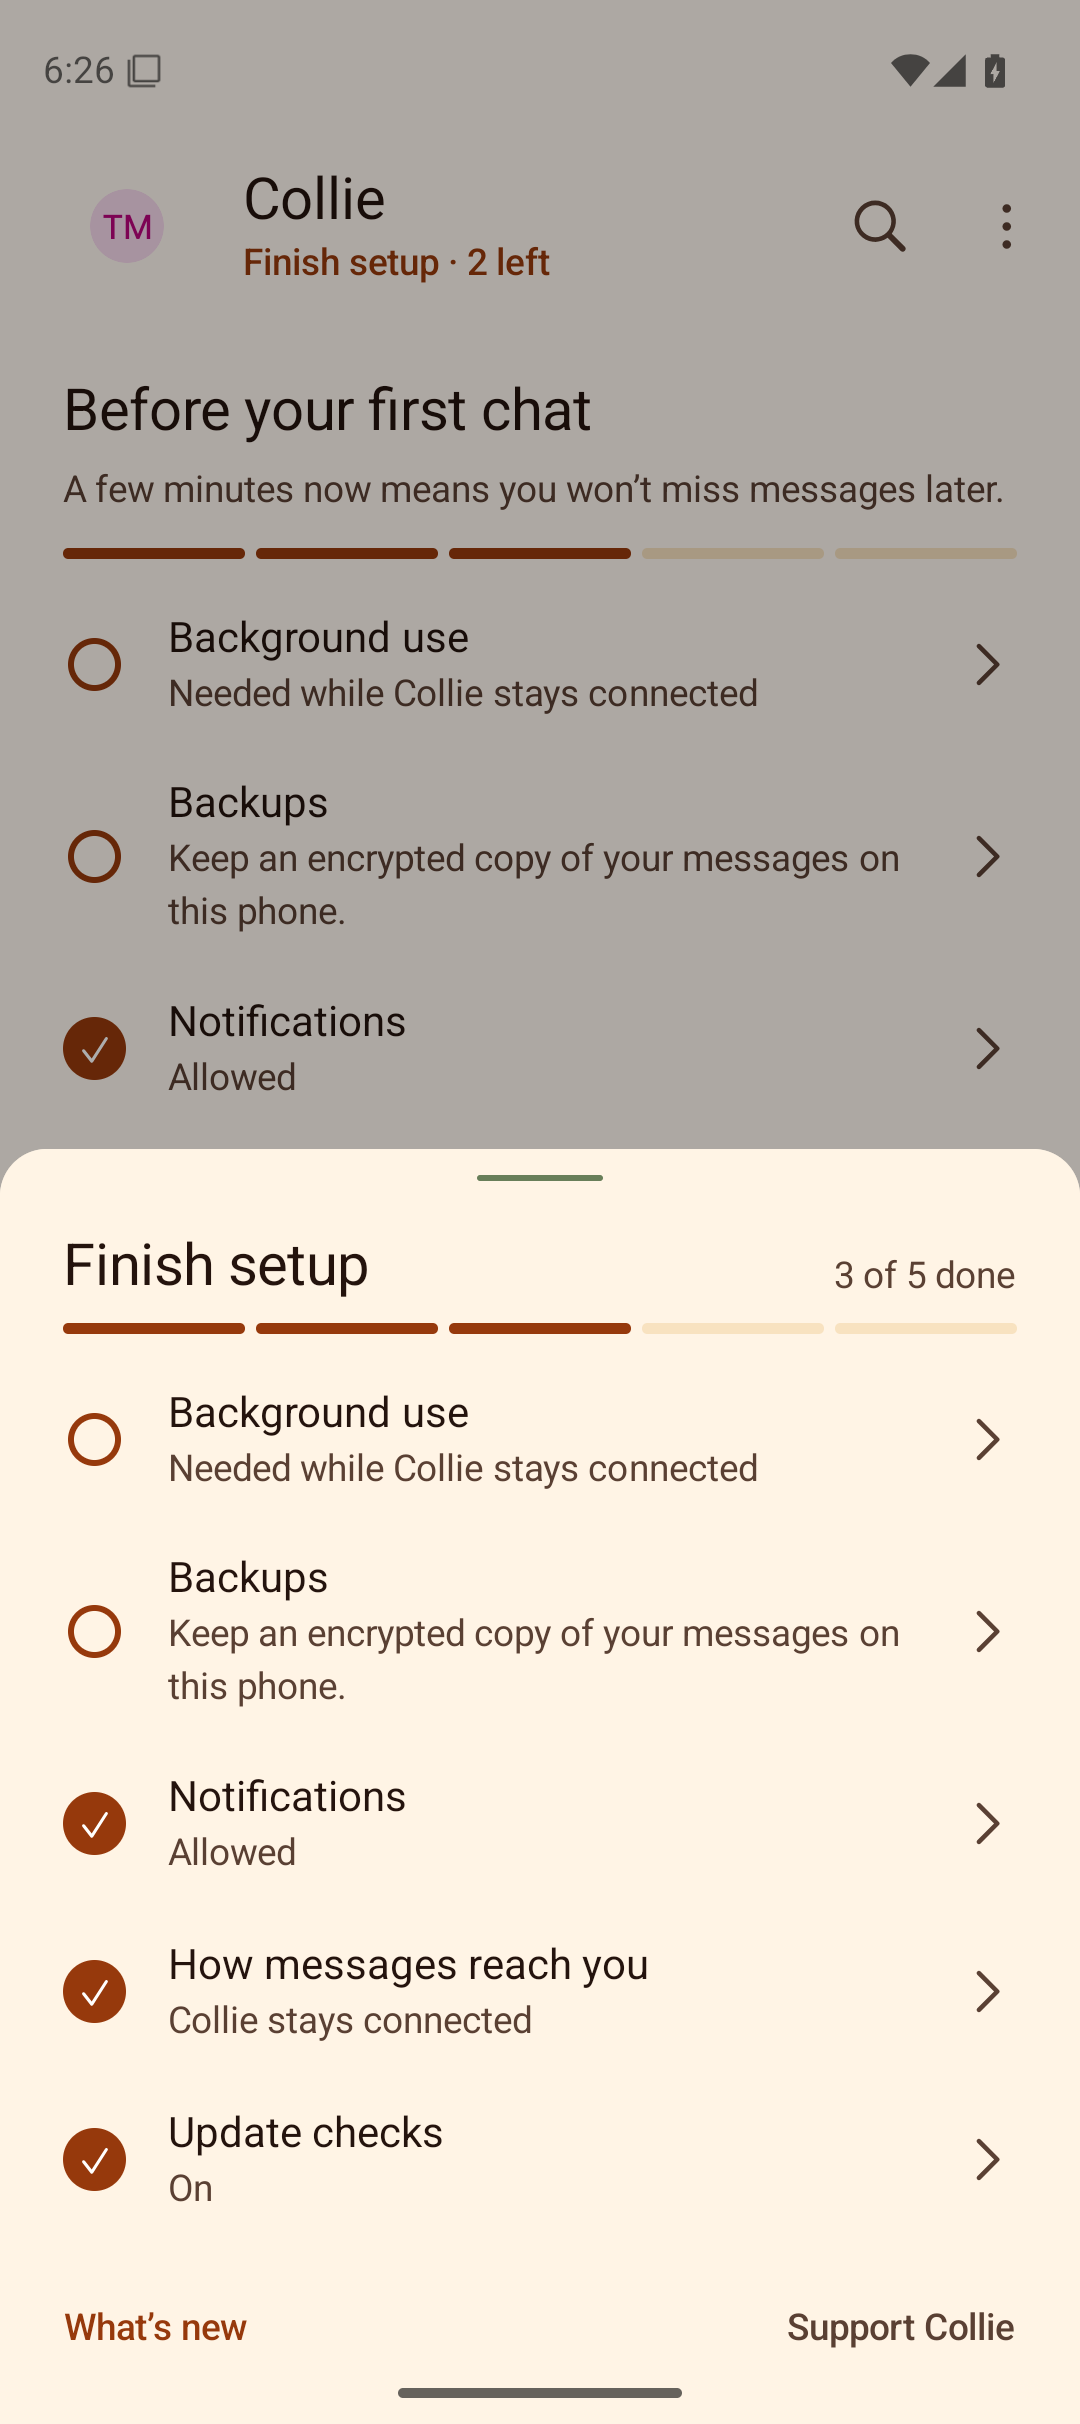
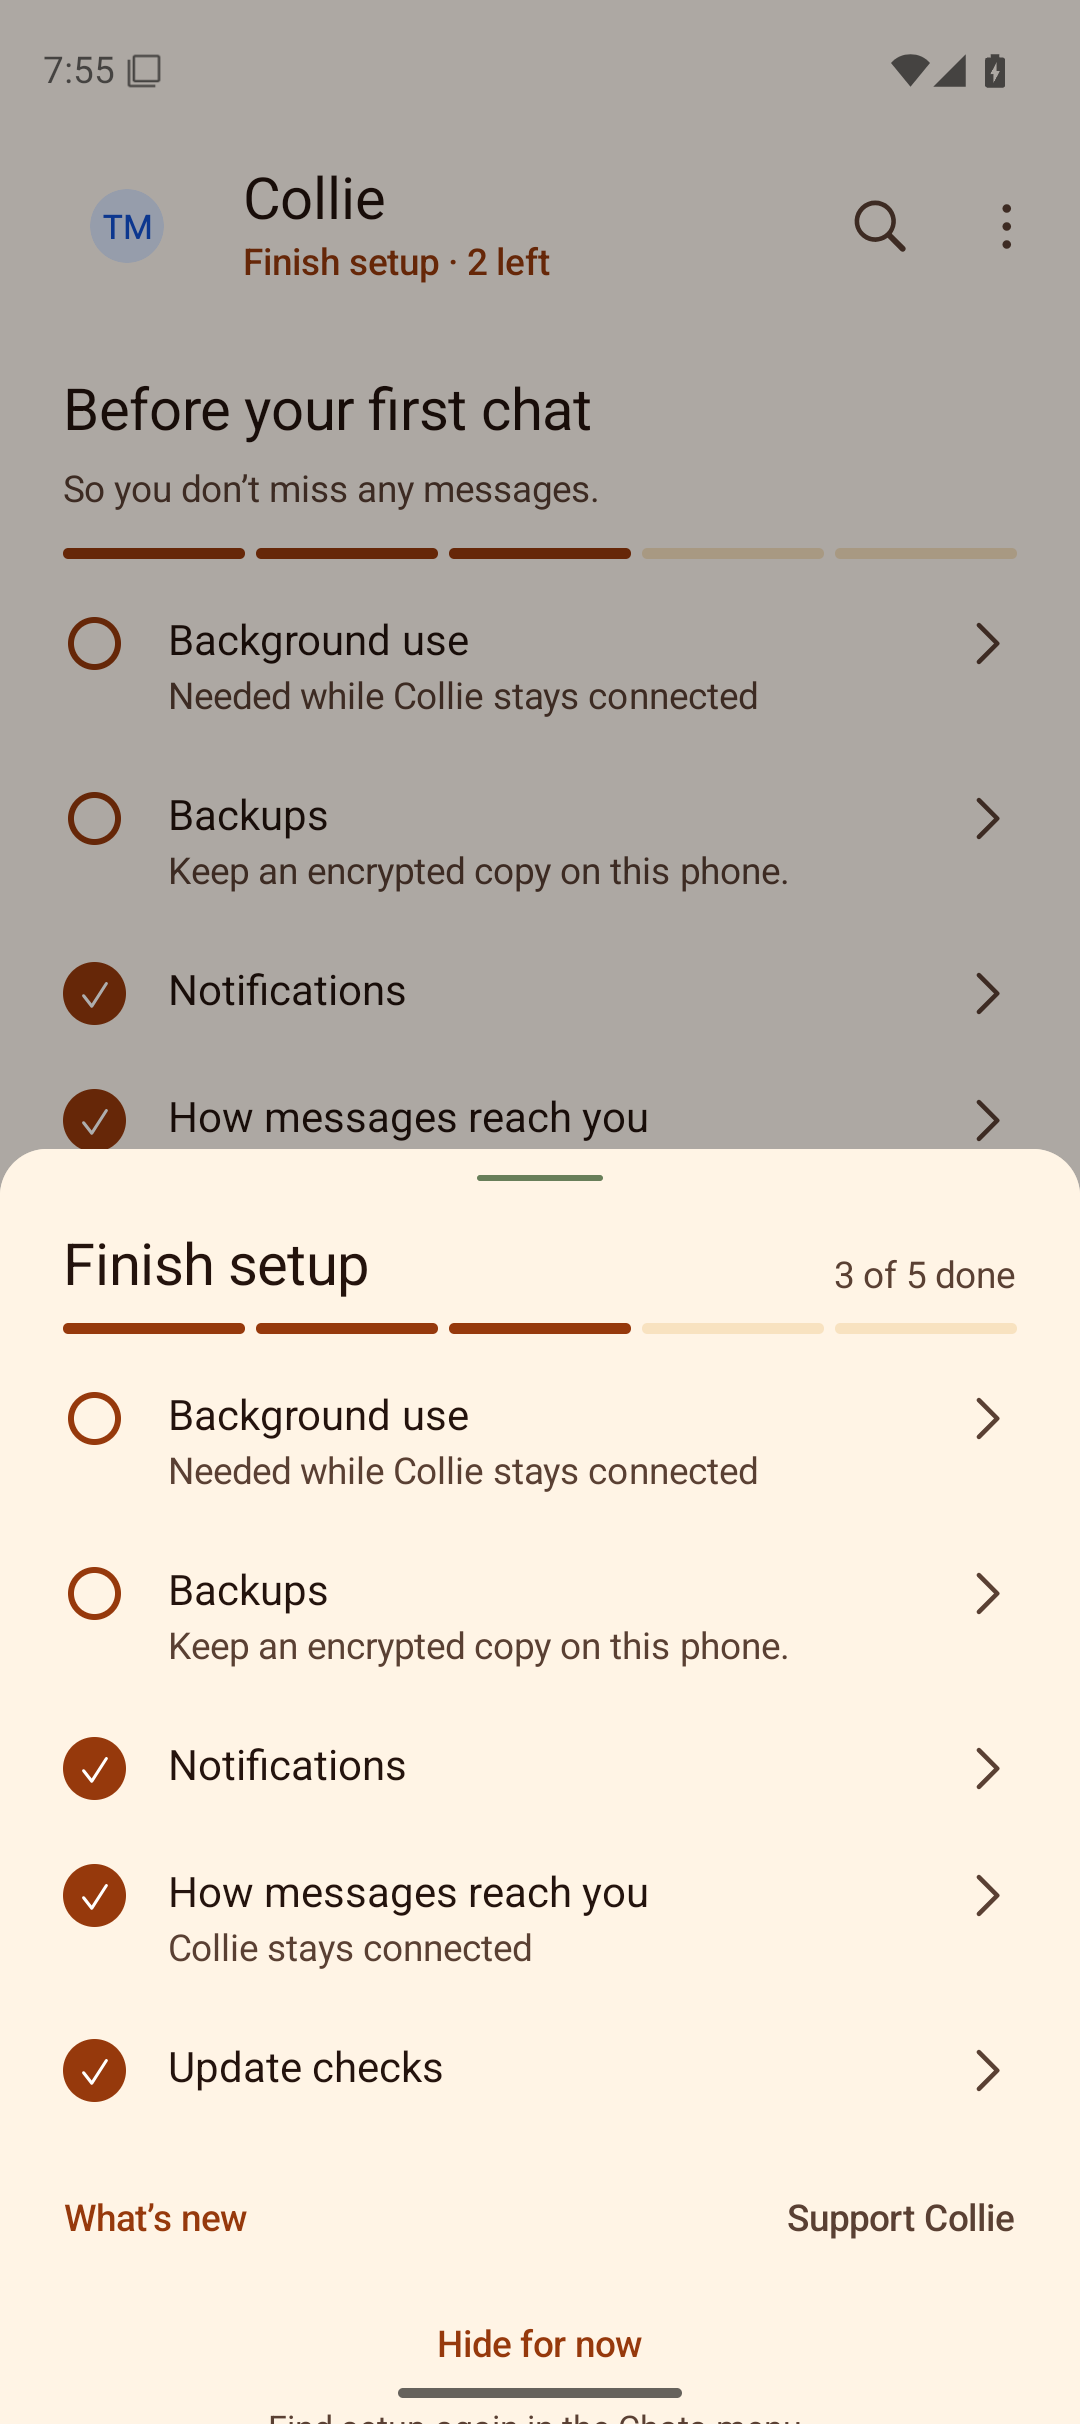
Keep the setup checklist tidy at large text sizes
At 200% text the checklist rows wrapped onto three lines with the mark and
chevron floating in the middle, and done rows repeated what the check mark
already said. Marks and chevrons now sit on each title's first line, done
rows drop "Allowed"/"On" (delivery keeps its method), two descriptions are
shorter, and the empty state no longer adds bottom space the list already
reserves for the camera and compose buttons (it caused a stray scrollbar).

Layer: setup

diff --git a/app/src/main/java/org/thoughtcrime/securesms/main/setup/SetupUi.kt b/app/src/main/java/org/thoughtcrime/securesms/main/setup/SetupUi.kt
@@ -17,7 +17,6 @@ import androidx.compose.foundation.layout.Row
 import androidx.compose.foundation.layout.Spacer
 import androidx.compose.foundation.layout.fillMaxWidth
 import androidx.compose.foundation.layout.height
-import androidx.compose.foundation.layout.heightIn
 import androidx.compose.foundation.layout.padding
 import androidx.compose.foundation.layout.size
 import androidx.compose.foundation.layout.width
@@ -33,6 +32,7 @@ import androidx.compose.ui.Alignment
 import androidx.compose.ui.Modifier
 import androidx.compose.ui.graphics.Color
 import androidx.compose.ui.layout.Layout
+import androidx.compose.ui.platform.LocalDensity
 import androidx.compose.ui.res.stringResource
 import androidx.compose.ui.semantics.Role
 import androidx.compose.ui.semantics.semantics
@@ -41,6 +41,7 @@ import androidx.compose.ui.text.TextStyle
 import androidx.compose.ui.text.rememberTextMeasurer
 import androidx.compose.ui.text.style.TextOverflow
 import androidx.compose.ui.unit.dp
+import androidx.compose.ui.unit.max
 import im.molly.unifiedpush.health.PushHealth
 import org.signal.core.ui.compose.SignalIcons
 import org.thoughtcrime.securesms.R
@@ -254,31 +255,41 @@ private fun SetupItemRow(
     }
   )
 
+  val titleStyle = MaterialTheme.typography.bodyLarge
+  // The mark and chevron sit on the title's first line, so they stay put when large text wraps the row onto more lines.
+  val firstLine = max(with(LocalDensity.current) { titleStyle.lineHeight.toDp() }, 24.dp)
+  val description = descriptionOf(row, details)
+
   Row(
-    verticalAlignment = Alignment.CenterVertically,
+    verticalAlignment = Alignment.Top,
     modifier = Modifier
       .fillMaxWidth()
-      .heightIn(min = 64.dp)
       .clickable(role = Role.Button, onClick = onClick)
       .semantics(mergeDescendants = true) { stateDescription = stateText }
-      .padding(horizontal = horizontalPadding, vertical = 10.dp)
+      .padding(horizontal = horizontalPadding, vertical = 12.dp)
   ) {
-    StatusMark(row.status)
+    Box(contentAlignment = Alignment.Center, modifier = Modifier.height(firstLine)) {
+      StatusMark(row.status)
+    }
     Spacer(modifier = Modifier.width(16.dp))
     Column(modifier = Modifier.weight(1f)) {
-      Text(text = stringResource(titleOf(row.item)), style = MaterialTheme.typography.bodyLarge)
-      Text(
-        text = descriptionOf(row, details),
-        style = MaterialTheme.typography.bodyMedium,
-        color = MaterialTheme.colorScheme.onSurfaceVariant
-      )
+      Text(text = stringResource(titleOf(row.item)), style = titleStyle)
+      if (description != null) {
+        Text(
+          text = description,
+          style = MaterialTheme.typography.bodyMedium,
+          color = MaterialTheme.colorScheme.onSurfaceVariant
+        )
+      }
     }
     Spacer(modifier = Modifier.width(8.dp))
-    Icon(
-      imageVector = SignalIcons.ChevronRight.imageVector,
-      contentDescription = null,
-      tint = MaterialTheme.colorScheme.onSurfaceVariant
-    )
+    Box(contentAlignment = Alignment.Center, modifier = Modifier.height(firstLine)) {
+      Icon(
+        imageVector = SignalIcons.ChevronRight.imageVector,
+        contentDescription = null,
+        tint = MaterialTheme.colorScheme.onSurfaceVariant
+      )
+    }
   }
 }
 
@@ -321,11 +332,12 @@ private fun titleOf(item: SetupItem): Int = when (item) {
   SetupItem.BACKUPS -> R.string.CollieSetup__backups_title
 }
 
+/** Done rows only get a description when it says more than the check mark does, such as which push method is in use. */
 @Composable
-private fun descriptionOf(row: SetupRow, details: SetupStatusRepository.Details): String {
+private fun descriptionOf(row: SetupRow, details: SetupStatusRepository.Details): String? {
   val done = row.status == ItemStatus.DONE
   return when (row.item) {
-    SetupItem.NOTIFICATIONS -> stringResource(if (done) R.string.CollieSetup__notifications_done else R.string.CollieSetup__notifications_todo)
+    SetupItem.NOTIFICATIONS -> if (done) null else stringResource(R.string.CollieSetup__notifications_todo)
     SetupItem.DELIVERY -> when (details.delivery) {
       Delivery.GOOGLE -> stringResource(R.string.CollieSetup__delivery_google)
       Delivery.UNIFIEDPUSH -> when {
@@ -337,20 +349,18 @@ private fun descriptionOf(row: SetupRow, details: SetupStatusRepository.Details)
       }
       Delivery.WEBSOCKET -> stringResource(if (done) R.string.CollieSetup__delivery_websocket else R.string.CollieSetup__delivery_websocket_todo)
     }
-    SetupItem.BATTERY -> stringResource(
-      when (row.status) {
-        ItemStatus.DONE -> R.string.CollieSetup__battery_done
-        ItemStatus.TODO -> R.string.CollieSetup__battery_todo
-        ItemStatus.SKIPPED -> R.string.CollieSetup__battery_skipped
-      }
-    )
+    SetupItem.BATTERY -> when (row.status) {
+      ItemStatus.DONE -> null
+      ItemStatus.TODO -> stringResource(R.string.CollieSetup__battery_todo)
+      ItemStatus.SKIPPED -> stringResource(R.string.CollieSetup__battery_skipped)
+    }
     SetupItem.UPDATE_CHECKS -> when {
       details.availableUpdateName != null -> stringResource(R.string.CollieSetup__updates_available, details.availableUpdateName)
       !done -> stringResource(R.string.CollieSetup__updates_todo)
       details.lastUpdateCheckMs > 0 -> stringResource(R.string.CollieSetup__updates_done_checked, relativeTime(details.lastUpdateCheckMs))
-      else -> stringResource(R.string.CollieSetup__updates_done)
+      else -> null
     }
-    SetupItem.BACKUPS -> stringResource(if (done) R.string.CollieSetup__backups_done else R.string.CollieSetup__backups_todo)
+    SetupItem.BACKUPS -> if (done) null else stringResource(R.string.CollieSetup__backups_todo)
   }
 }
 

diff --git a/app/src/main/java/org/thoughtcrime/securesms/main/setup/SetupEmptyState.kt b/app/src/main/java/org/thoughtcrime/securesms/main/setup/SetupEmptyState.kt
@@ -83,7 +83,7 @@ private fun EmptyChats(
     horizontalAlignment = Alignment.CenterHorizontally,
     modifier = Modifier
       .fillMaxWidth()
-      .padding(top = 24.dp, bottom = 96.dp)
+      .padding(top = 24.dp, bottom = 8.dp)
   ) {
     Column(
       verticalArrangement = Arrangement.spacedBy(6.dp),

diff --git a/docs/screenshots/finish-setup/README.md b/docs/screenshots/finish-setup/README.md
@@ -20,6 +20,6 @@ Result: `OK (4 tests)`. The test turns screen security off only while it capture
 | [03-light-updated.png](03-light-updated.png) | "Updated · See what's new" outranking setup |
 | [04-light-whats-new.png](04-light-whats-new.png) | What's new, opened from the status line |
 | [05-dark-push-app-missing.png](05-dark-push-app-missing.png) | Dark theme: UnifiedPush on with no push app installed, so a red status line and the problem banner |
-| [06-large-text-updated.png](06-large-text-updated.png) | Font scale 2.0: the status line switches to the shorter "See what's new" instead of being cut off |
+| [06-large-text-updated.png](06-large-text-updated.png) | Android text size set to 200%, the largest setting, on purpose: the status line switches to the shorter "See what's new" instead of being cut off, and the checklist marks stay on each title's first line |
 
-The test account keeps message notifications off inside Collie, which counts as the person's choice, so Notifications shows as allowed.
+The test account keeps message notifications off inside Collie, which counts as the person's choice, so Notifications shows as done.
